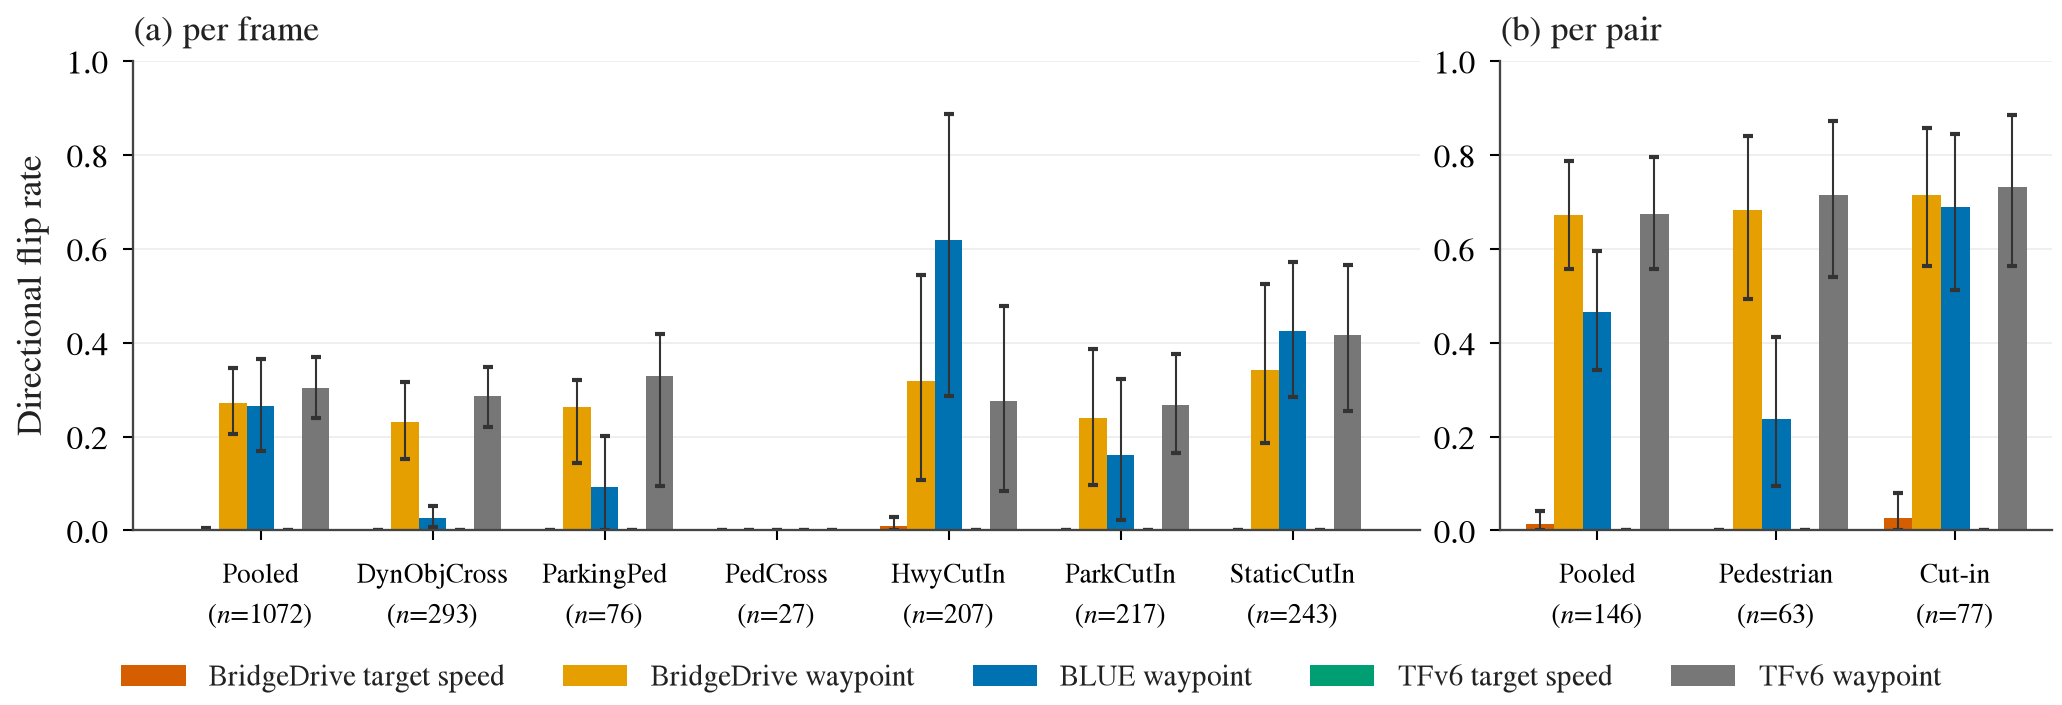
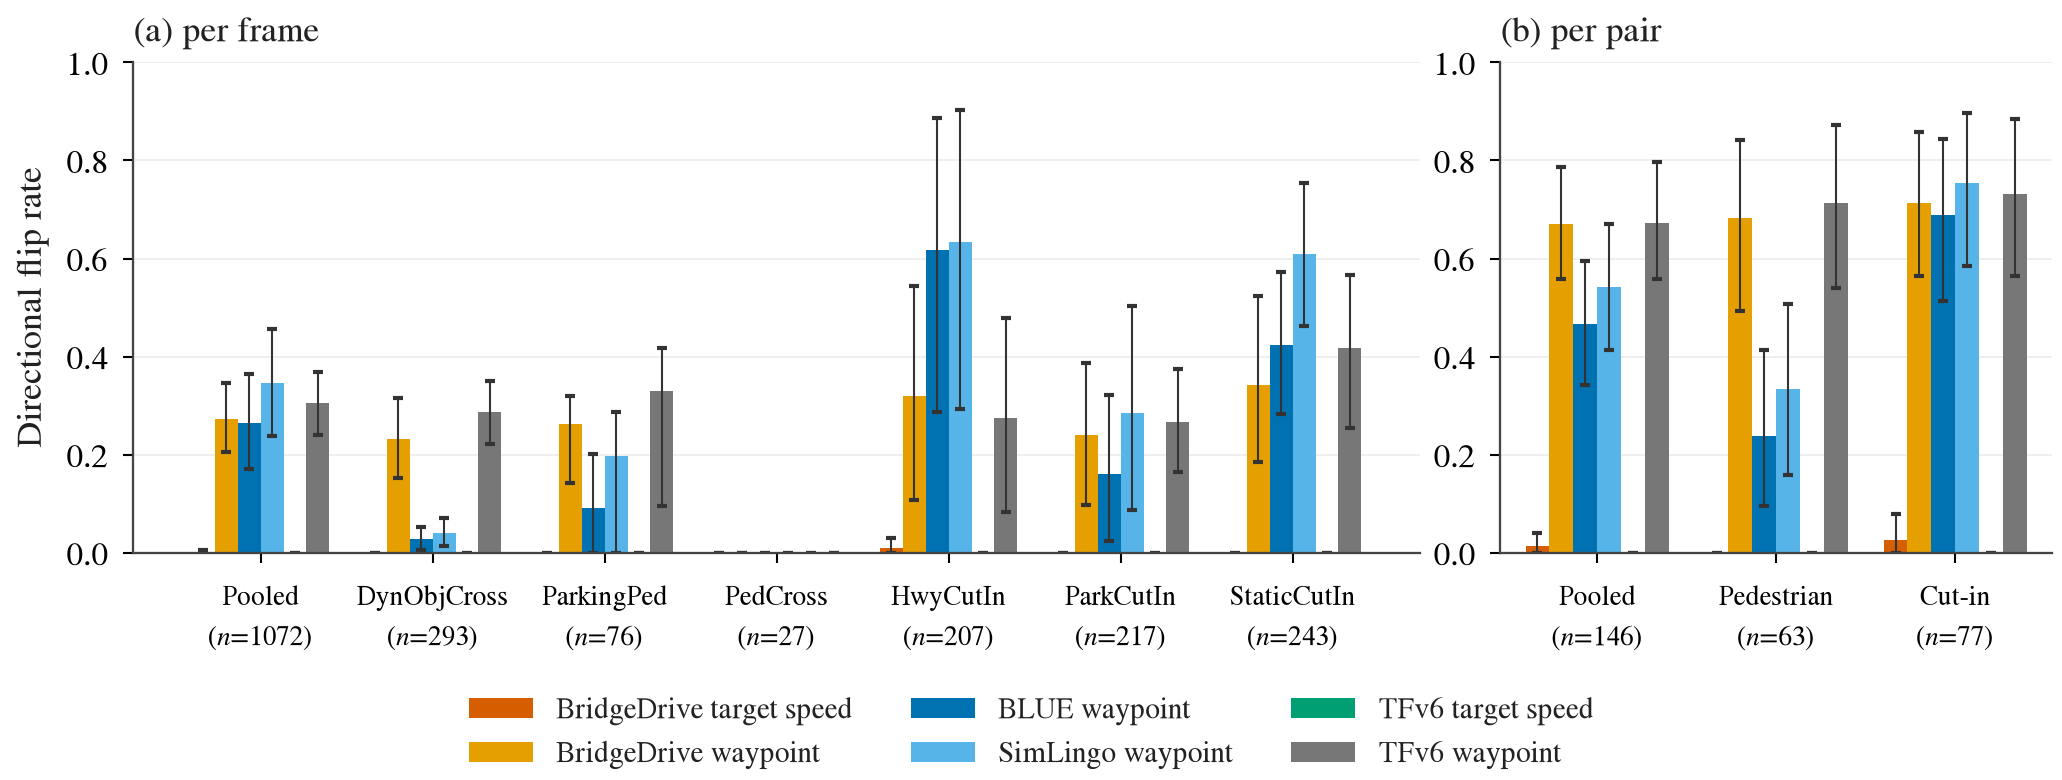
Top-10 T3: SimLingo rows in the judge tables and the figure

diff --git a/scripts/make_top10_t3_figs.py b/scripts/make_top10_t3_figs.py
@@ -1,5 +1,5 @@
 """Figure for the top-10 exams, executor T3 (todos/2026-09-26-top10-intersection.md, results): directional flip rate of
-BridgeDrive (both channels) and BLUE on the P5 v1 BehaviorAgent pairs, per family, per frame (a) and per pair (b), next
+BridgeDrive (both channels), BLUE and its base SimLingo on the P5 v1 BehaviorAgent pairs, per family, per frame (a) and per pair (b), next
 to TFv6's two channels from the original recording on the same judge.
 
     python scripts/make_top10_t3_figs.py      # reads research/results/top10-exams/p5_t3_*.csv
@@ -23,6 +23,7 @@ ps.apply()
 EX = {"BridgeDrive target speed": ("BridgeDrive target speed", ps.PALETTE["vermillion"]),
       "BridgeDrive waypoint speed 2 s": ("BridgeDrive waypoint", ps.PALETTE["orange"]),
       "BLUE waypoint speed 2 s": ("BLUE waypoint", ps.PALETTE["blue"]),
+      "SimLingo waypoint speed 2 s": ("SimLingo waypoint", ps.PALETTE["sky_blue"]),
       "TFv6 target speed": ("TFv6 target speed", ps.PALETTE["green"]),
       "TFv6 waypoint speed 2 s": ("TFv6 waypoint", ps.BASELINE)}
 FAM = ["pooled", "DynamicObjectCrossing", "ParkingCrossingPedestrian", "PedestrianCrossing", "HighwayCutIn",
@@ -54,15 +55,15 @@ def main():
     fl = pd.read_csv(RES / "p5_t3_flip_rates.csv")
     pp = pd.read_csv(RES / "p5_t3_per_pair.csv")
     pp = pp[pp.window == "(b) per pair"]
-    fig, axs = plt.subplots(1, 2, figsize=(ps.DOUBLE_COLUMN_IN, 2.35), gridspec_kw={"width_ratios": [7, 3]})
+    fig, axs = plt.subplots(1, 2, figsize=(ps.DOUBLE_COLUMN_IN, 2.6), gridspec_kw={"width_ratios": [7, 3]})
     panel(axs[0], fl, FAM, "flip_rate", "flip_lo", "flip_hi", "n_reactive")
     ps.panel(axs[0], "(a) per frame")
     panel(axs[1], pp, ["pooled", "pedestrian", "cut-in"], "flip", "lo", "hi", "n")
     ps.panel(axs[1], "(b) per pair")
     axs[1].set_ylabel("")
     h, lab = axs[0].get_legend_handles_labels()
-    fig.legend(h, lab, loc="lower center", ncol=5, bbox_to_anchor=(0.5, -0.02), fontsize=7)
-    fig.tight_layout(rect=(0, 0.08, 1, 1), pad=0.3)
+    fig.legend(h, lab, loc="lower center", ncol=3, bbox_to_anchor=(0.5, -0.02), fontsize=7)
+    fig.tight_layout(rect=(0, 0.14, 1, 1), pad=0.3)
     print(ps.save(fig, REPO / "research" / "figs" / "top10-t3-flip-rates"))
 
 
